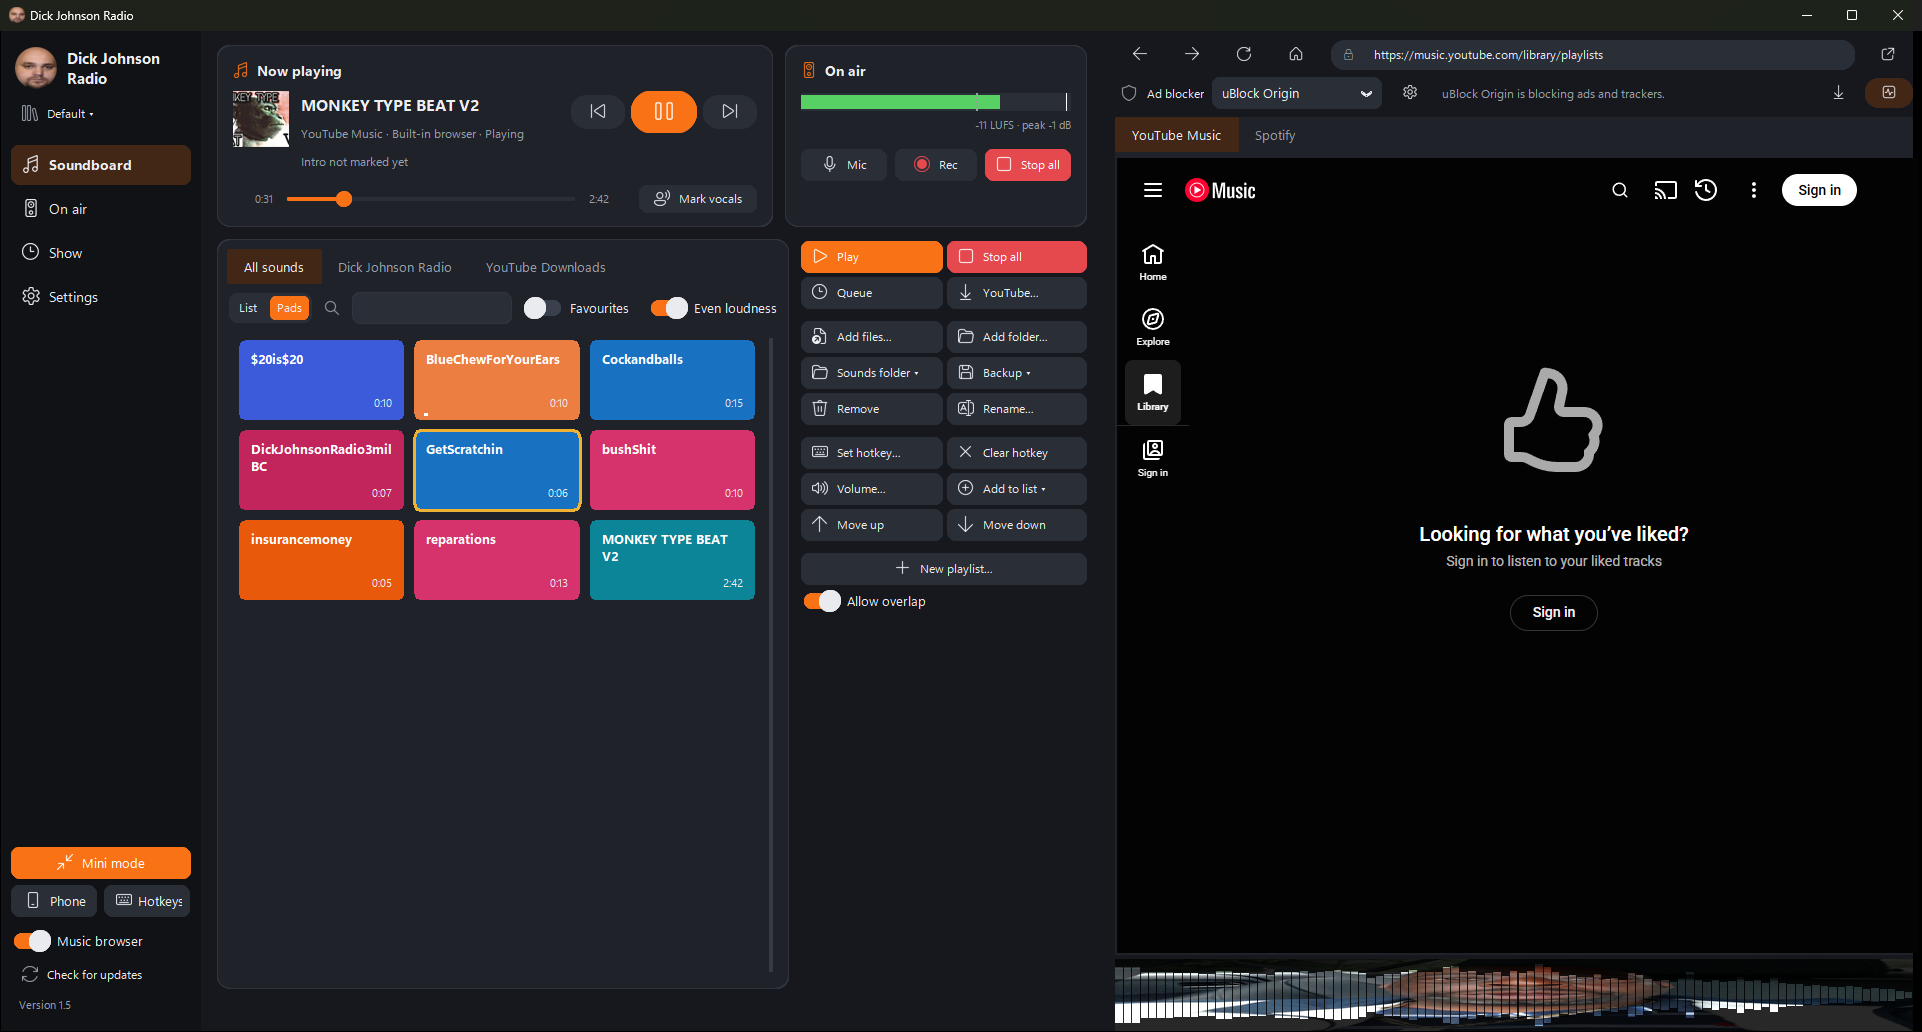
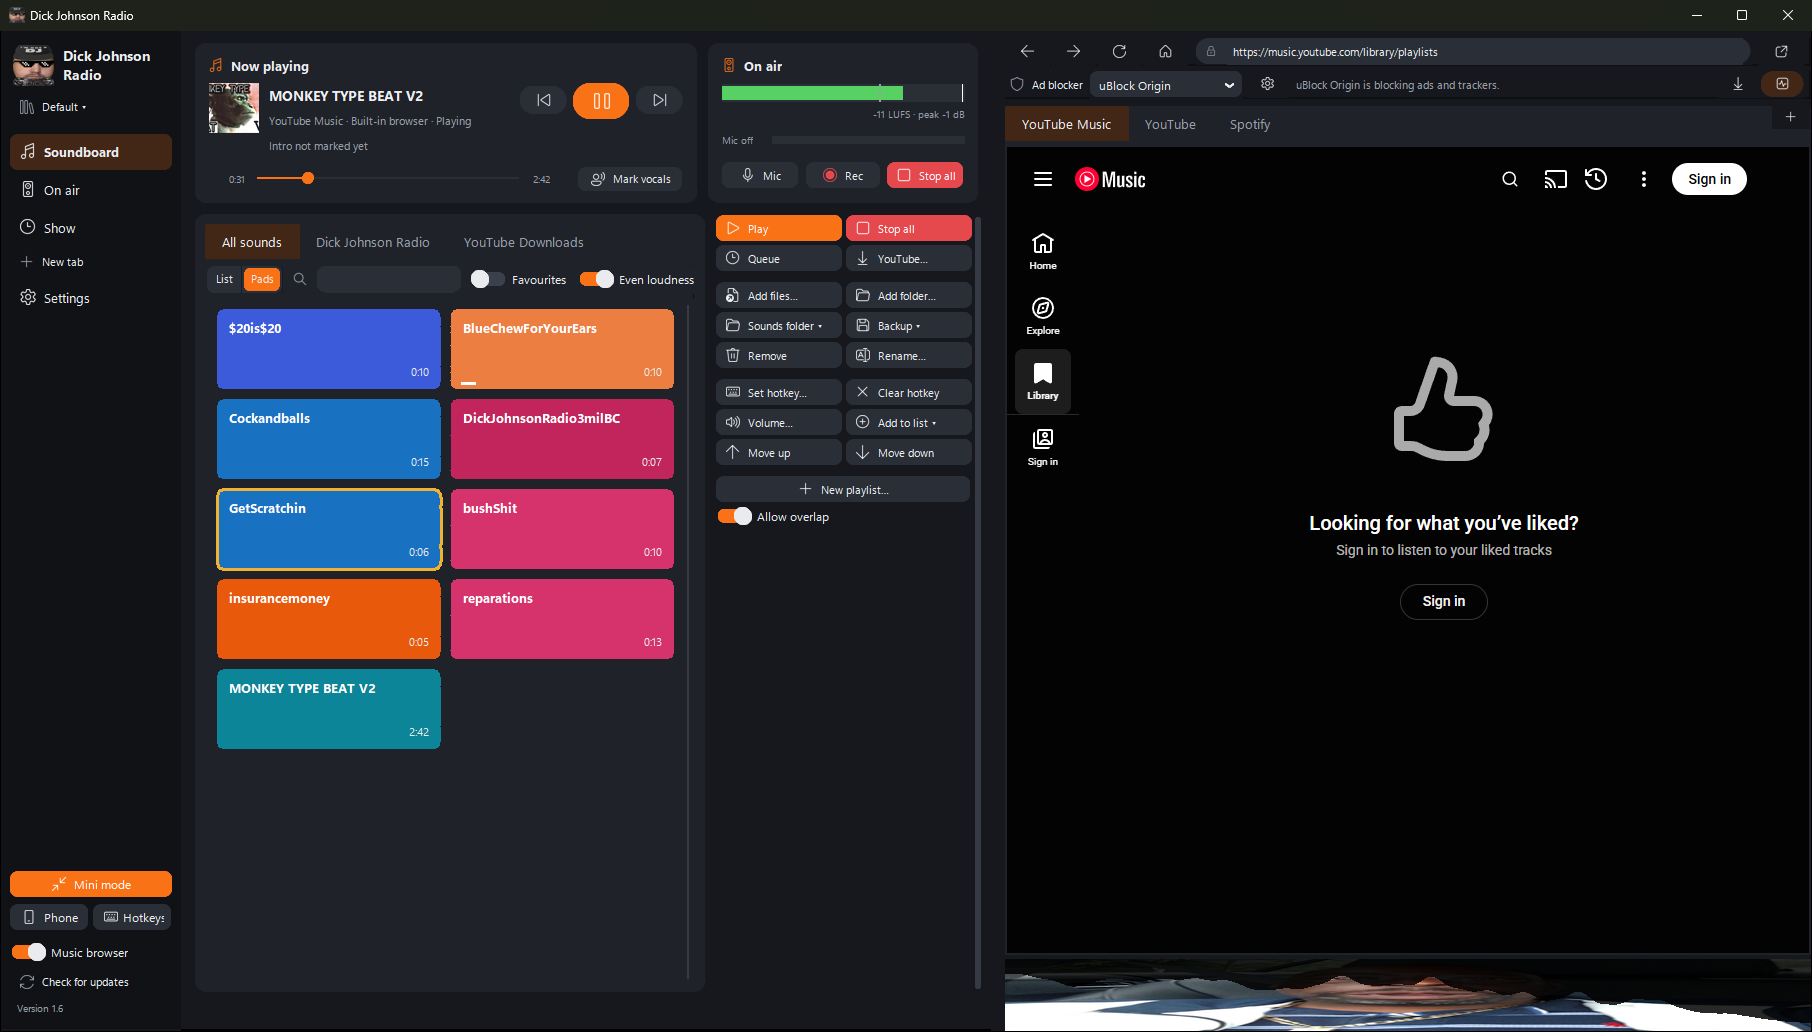
README for 1.6: custom tabs, YouTube and custom browser tabs, hearing the cable; new screenshots

diff --git a/README.md b/README.md
@@ -23,12 +23,16 @@
 
 <table>
   <tr>
-    <td width="50%"><img src="screenshots/on-air.png" alt="On air page"><br><sub><b>On air</b>: cable output and boost, speakers, mic, voice effects, talk and Game PTT</sub></td>
+    <td width="50%"><img src="screenshots/on-air.png" alt="On air page"><br><sub><b>On air</b>: cable output and boost (and <b>Hear it</b>: listen live or a 10-second test), speakers, mic, voice effects, talk and Game PTT</sub></td>
     <td width="50%"><img src="screenshots/show.png" alt="Show page"><br><sub><b>Show</b>: between-songs queue, station IDs, announcements, type-to-talk</sub></td>
   </tr>
   <tr>
     <td><img src="screenshots/light-theme.png" alt="Light theme"><br><sub>Light theme, list view with waveforms</sub></td>
     <td><img src="screenshots/settings.png" alt="Settings page"><br><sub><b>Settings</b>: theme, accent colour, size, and which features are shown (AMOLED black theme)</sub></td>
+  </tr>
+  <tr>
+    <td width="50%"><img src="screenshots/custom-tab.png" alt="A custom tab"><br><sub><b>Your own tabs</b>: just the tools you pick, in your order (here the soundboard, cable output, mic and talk)</sub></td>
+    <td width="50%" align="center"><img src="screenshots/tab-editor.png" alt="The tab editor"><br><sub><b>Edit tab</b>: add, remove and reorder a tab's tools</sub></td>
   </tr>
   <tr>
     <td align="center"><img src="screenshots/mini-mode.png" alt="Mini mode"><br><sub>Mini mode: a small always-on-top remote</sub></td>
@@ -53,7 +57,7 @@
 - **Playlists** as tabs, with loop, shuffle, skip and their own hotkeys
 
 ### Music & media
-- **Built-in browser** with tabs for YouTube Music and Spotify; logins are remembered
+- **Built-in browser** with tabs for YouTube Music, YouTube and Spotify, plus **your own tabs** for any site (the **+** at the end of the tabs; right-click one to rename or remove it); logins are remembered
 - **uBlock Origin** ad blocking built in (or uBlock Origin Lite)
 - Media controls for the built-in browser: play/pause, next, previous and a **seek bar**
 - **Album art** in the now-playing area
@@ -83,9 +87,11 @@
 - **Mini mode**: a small always-on-top remote with your favourite pads
 - **Modern look**: a sidebar with Soundboard, On air, Show and Settings pages; light, dark or **AMOLED black** themes with any accent colour, and a size setting (90 to 125%)
 - **Your layout**: show or hide any feature (Settings, or right-click a card's title); every hotkey in one **Hotkeys** window, or right-click a button to set its own
+- **Your own tabs**: **New tab** in the sidebar makes a tab with just the tools you pick (the soundboard, cable output, speakers, mic, voice effects, talk, auto-duck, recording, the queue, station IDs, announcements, type-to-talk), in your order. **Edit tab** adds, removes and reorders them; right-click a tab in the sidebar to move it up or down
 - **System tray** icon with quick controls, and an option to keep running in the tray when you close the window
 - **Phone remote**: run the show from your phone's browser over your Wi-Fi, in the app's own look: pads and playlists, now playing, mic, volumes, voice effects, hold to talk, Game PTT, the queue, station IDs, type-to-talk and recording. Choose what it shows from its **Customize** button. Scan a QR code, PIN-protected, home network only
 - **Cable boost** up to +18 dB with a limiter, and per-source sliders up to 800%, so the browser can be quiet on your speakers but loud on the cable
+- **Hear what you send**: **Listen live** plays exactly what goes into the cable (mic, music, clips, boost) on your headphones, and **Test 10 s** records 10 seconds of it and plays it back, so you can set your volumes
 - **Sounds folder**: drop files in and they appear on the board. Added sounds are copied there, so the setup is portable
 - **Backup**: export your whole setup (sounds, playlists, hotkeys, art, settings) to one zip and import it on another PC
 - An **installer** (shortcuts, start with Windows, uninstall from Windows Settings), or one standalone exe that sets itself up in whatever folder you run it from
